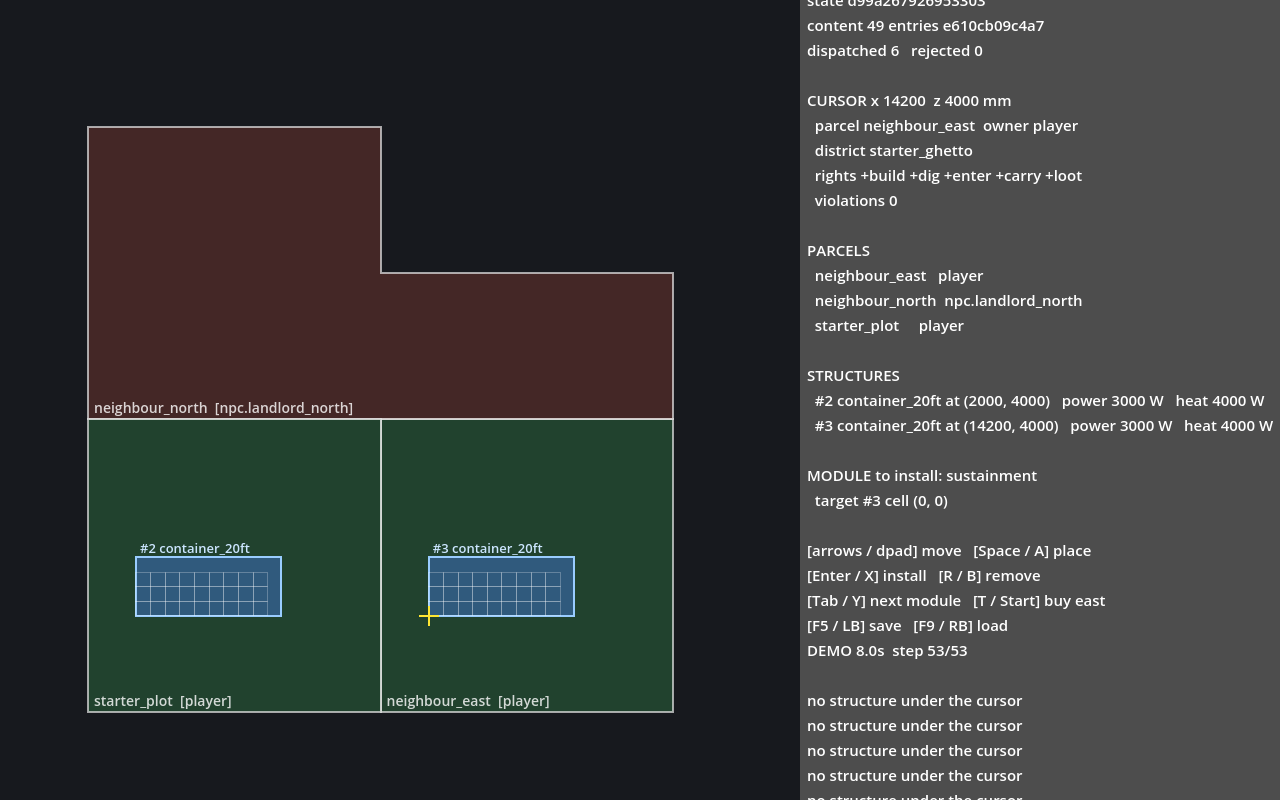
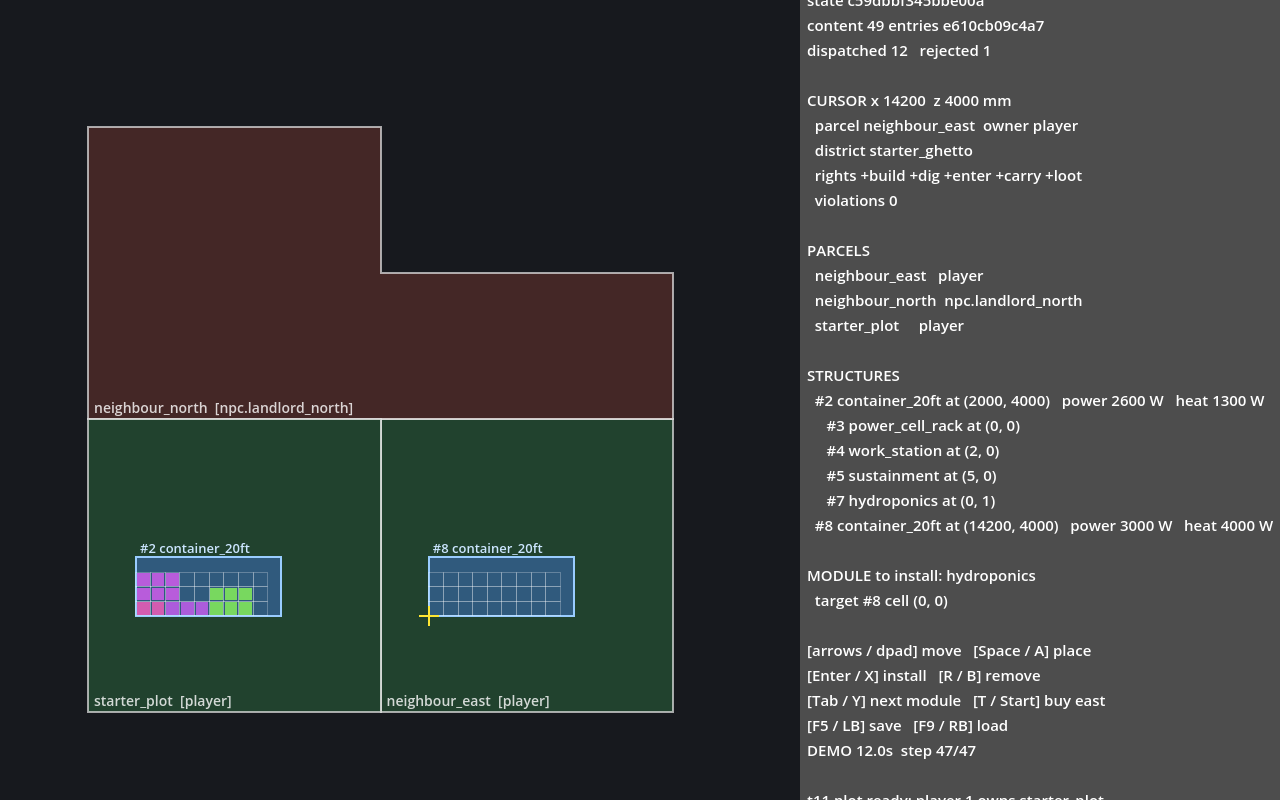
G2 evidence package: M2 gate submitted
docs/gates/M2-gate.md with the verification report (123 tests, five 10k
properties, four fixtures, two corpora), a twelve-step demo script, the
debt and deviation log (owners as tags, corner checks, water carried but
not budgeted, remaining debug-class commands) and the four standing
questions. Plot view demo selects modules by name so the capture shows
the full build-out; screenshot re-taken. Gate ledger, spec status and
README updated.

Claude-Session: https://claude.ai/code/session_01CwFmxaS9Kz2J6ZuesAfkz4

diff --git a/docs/gates/M2-gate.md b/docs/gates/M2-gate.md
@@ -1,0 +1,185 @@
+# G2 — M2 Land authority + starter plot: gate evidence package
+
+Milestone: M2 — Land authority + starter plot (design doc §16; standards §11 row G2)
+Specification: `docs/specs/M2-land-authority-starter-plot.md` (approved 2026-09-21)
+Submitted: 2026-09-21 by Claude Code, on branch `claude/relaxed-franklin-hs29t3`,
+commits `f9934f8` … `3aabed4` plus this package
+Outcome: _pending review_
+
+---
+
+## 1. Specification
+
+See `docs/specs/M2-land-authority-starter-plot.md`. Twenty-one claims; all
+implemented. One deviation was made before the code it concerns and is recorded in
+§4 (owners are tags, not actor ids). Two wordings were strengthened in the code and
+are recorded there too: placement checks every footprint corner, not only the origin
+(claim 9), and the M0/M1 fixtures were re-recorded four times as systems and content
+were added (claim 21).
+
+| Claims | Delivered by | Commit |
+|---|---|---|
+| 1–7 land authority | `sim/land/land_system.gd`, `district` / `parcel` content and schemas, `docs/extending-land.md` | `f9934f8` |
+| 8–12 starter plot, container, modules, budget | `sim/land/structure_system.gd`, `structure` / `module` content and schemas, `power_available` / `heat_headroom` stats, `docs/extending-modules.md` | `09980e6` |
+| 13–16 save and load | `sim/core/save_file.gd`, `SimRoot.restore_root()`, `SimAssembly.load_save()`, `tests/fuzz/save_file/` | `a4be426` |
+| 17 command actor checks | `ItemSystem.set_actor_check()` from the assembly; progression already refused dead actors | `f49ab85` |
+| 18 Steam Cloud file set | `docs/steam-cloud.md`; the client writes the slot layout | `f49ab85` |
+| 19 content schemas | `tools/content_schemas/{district,parcel,structure,module}.json`; cross-references and cycles checked in the systems' `validate_content()` | `f9934f8`, `09980e6` |
+| 20 client view | `client/plot_view.gd` (new main scene), `LocalHost.adopt()`, input map | `f49ab85` |
+| 21 fixtures | `tests/replay/m2-starter-plot.json`, `tests/sim/test_m2_fixture.gd` (mid-run save and resume) | `f49ab85` |
+| Q4 extension exercise | `content/module/hydroponics.json`, `content/district/corporate_core.json`, `tests/land/test_extension_content.gd` | `3aabed4` |
+
+## 2. Verification report
+
+All numbers below were produced on the development container (Linux x86_64, Godot
+4.6.1-stable, Python 3.11), **not on Steam Deck hardware**. M2 makes no performance
+claim (standards §4.2 applies from G4). Reproduce with `tools/test.sh`.
+
+### Fitness functions (`tools/test.sh fitness`)
+
+| Check | Result |
+|---|---|
+| Python tool tests | 37 tests, OK |
+| `tools/check_dependencies.py` | clean |
+| `tools/validate_content.py` | clean: 49 content entries across 15 kinds, every file structurally valid, every cross-reference resolved |
+
+### Static analysis (`tools/test.sh scripts`)
+
+Every `.gd` file passes `--check-only` with warnings as errors. During M2 the
+analyzer rejected 31 places where a dictionary lookup was passed straight into a
+typed parameter; each was rewritten with a typed local (none was silenced).
+
+### Headless test suite (`tools/test.sh unit`)
+
+| Suite | Tests | What it proves |
+|---|---|---|
+| `tests/land/test_land_system.gd` | 12 | Content parcels placed; shared edges and the three-way corner resolve to exactly one parcel; half-open vertical extent; rights per table; digging under the neighbour refused; `require()` emits exactly one event per refusal and none on success; payload contracts; polygon validity (bow tie, folded edge, sub-m²); overlap rejection (identical, partial, contained, containing, stacked, edge- and corner-sharing); diagonal split; **totality over 10 000 positions and actors**; **rectangle-oracle property: `add_parcel` and `parcel_at` agree with brute force over 10 000 adds and 10 000 queries**; restore round trip with a rejected bad restore |
+| `tests/land/test_structure_system.gd` | 13 | Placement records owner and budgets; rotation; trespass at any corner is a violation; the badlands are free; footprints never overlap; three modules within budget and the fourth refused; exact budget arithmetic and exact restoration on removal; grid bounds and occupancy; dependants never orphaned; strangers refused; payload contracts; **10 000-step random install/remove property against a budget, occupancy and dependency oracle**; restore round trip through the resolver |
+| `tests/sim/test_save_file.gd` | 6 | `load(save(state))` hashes equal and keeps stepping equal with queued commands; text deterministic and under 64 KiB; 64-bit RNG state and prefixed strings exact; 20 named hostile mutations (10 at parse, 10 at load); 14-file corpus; **10 000 random mutations never crash and every accepted mutant is self-consistent**; **10 000 generated sims round-trip and keep stepping identically** |
+| `tests/sim/test_m2_fixture.gd` | 2 | The M2 fixture matches its recorded hash and its end state (two containers, four and one modules, one violation, two rejections); save at tick 200, load, resume equals the uninterrupted run and the recorded hash |
+| `tests/land/test_extension_content.gd` | 2 | Every module installs after its dependencies on an empty container within budget; every district's rights table is exactly what `rights_at()` reports |
+| M0 and M1 suites | 88 | Unchanged claims still hold; the M1 item tests now spawn their actors first (claim 17); 27 M2 cases added to the hostile command corpus (76 cases in all) |
+| **Total** | **123 tests, 213 109 assertions, 0 failed** | `check_test_log: clean` |
+
+Property seeds are fixed constants in the test files. No failing seed was found.
+
+### Replay determinism (`tools/test.sh replay`)
+
+Each fixture replayed in two separate engine processes, hashes identical and equal
+to the recorded ones:
+
+```
+ok   tests/replay/m0-trivial.json      c2d8702d7ee6ac33070ab7ebf61114a118108a9604ee2a96493ccc882e1f07dd
+ok   tests/replay/m1-perk-off.json     ad97bbf299d55709bf0ebecd7866b1511c87049ad2e50c587c4a819bc6da4389
+ok   tests/replay/m1-range.json        1ed8f26c5c5222b921c48bcaf5c4993e3e79795eb8810c8f654a3e4a9ba9cf61
+ok   tests/replay/m2-starter-plot.json 7a6f63caf6c91da7395fa0c5e8dd99594b633b8ea2da73d2f9516a79a615cdd0
+```
+
+### Fuzz corpora
+
+- `tests/fuzz/commands/hostile_payloads.json`: 76 cases (27 new for `land.*`,
+  `structure.place`, `module.*` and actor-less item and perk commands); each rejected
+  with system state untouched, against the assembled M2 sim.
+- `tests/fuzz/save_file/`: 14 hostile saves (empty, garbage, wrong version, missing
+  or short digest, unprefixed key, float, big-int overflow, malformed int key, unknown
+  envelope key, 200-deep nesting, binary garbage, int64 edges); all rejected with a
+  message; the loader's `to_int` overflow found by the corpus was replaced by an
+  overflow-safe parser and the edge file committed.
+
+### Screenshot
+
+`docs/gates/screenshots/M2-plot.png`: the plot view at 12 s into the scripted demo:
+both parcels owned, the first container with its rack, work station, sustainment and
+hydroponics and the resolved budgets, the second container on the bought neighbour,
+the save written.
+
+## 3. Demo script
+
+On any Linux x86_64 machine with `python3`, `curl`, `unzip`; steps 8–12 also on the
+Deck from the Linux export. Expected observation follows each step.
+
+1. Check out `3aabed4` (or later on the branch) and run `tools/test.sh`. →
+   `123 tests, 213109 assertions, 0 failed`, four `ok` replay lines with the hashes
+   above, `all stages passed`.
+2. `git show --stat 3aabed4`. → Seven files: two under `content/`, one test, four
+   fixture hash lines. Nothing under `sim/`, `client/` or `tools/` (Q4).
+3. Edit `content/district/starter_ghetto.json` and set the `other` row's `enter` to
+   `false`; run `tools/test.sh unit`. → `test_every_district_rights_table_is_what_rights_at_reports`
+   still passes (it reads the table), `test_rights_follow_owner_other_and_unowned_tables`
+   fails on the stranger's rights, and every fixture hash mismatch names the content
+   digest change. Revert.
+4. Add `"depends_on": ["hydroponics"]` to `content/module/work_station.json`; run
+   `tools/test.sh unit`. → Every assembly fails with
+   `StructureSystem: content rejected: module/hydroponics depends on itself` (the cycle
+   is found through work_station). Revert.
+5. Change `"ticks": 400` to `401` in `tests/replay/m2-starter-plot.json`; run
+   `tools/test.sh unit`. → both `test_m2_fixture` tests fail on the hash. Revert.
+6. `tools/screenshot.sh /tmp/plot.png 12` → a PNG matching
+   `docs/gates/screenshots/M2-plot.png` up to the seed and hash text.
+7. `$(tools/godot.sh) --path .` → the plot view opens at 1280×800: the L-shaped
+   neighbour to the north in red, the starter plot in green, the cursor on the plot.
+8. Press Space. → A container appears at the cursor; the panel shows
+   `power 3000 W   heat 4000 W` for it.
+9. Press Tab until `MODULE to install: power_cell_rack`, then Enter. → A green block
+   fills cells (0,0)–(1,0); power reads 5500 W, heat 3400 W.
+10. Move the cursor right twice, Tab to `work_station`, Enter. → Cells (2,0)–(4,0)
+    fill; power 4700 W, heat 2900 W. Press R with the cursor still there. → The
+    module is removed and the numbers return to 5500 / 3400 exactly.
+11. Move the cursor onto `neighbour_east` (right until `parcel neighbour_east`), press
+    Space. → Nothing is placed; `violations` increments by one. Press T, then Space. →
+    `neighbour_east   player` in the parcel list and a second container appears.
+12. Press F5, quit, relaunch, press F9. → `loaded tick N`; both containers and their
+    modules are back with the same numbers; `state` shows the same 16 hex characters
+    as before quitting once the tick counts match (compare after F5 without stepping:
+    the demo's `--demo-quit=0.1` is the reproducible way, see `tools/screenshot.sh`).
+
+## 4. Debt and deviation log
+
+| # | Item | Kind | Scheduled |
+|---|---|---|---|
+| 1 | **Owners are tags** (`player`, `npc.<name>`, `faction.<id>`), not actor ids; actors act as the owner they are identified with (`land.identify`). The spec said actor ids; the design (§9.4) has factions and the city-state own land, which actor ids cannot express. | deviation (spec §"Assumptions" amended in this package) | closed |
+| 2 | `land.identify` is a debug-class command like `land.transfer` and `actor.spawn`: any client can make any actor the player. Gated with G1 debt 4 before co-op. | security | before co-op (M8 gate at the latest) |
+| 3 | Placement checks `build` at all four footprint corners, not only the origin as the spec wrote; a container straddling a boundary is refused. Stronger, not weaker. | strengthening | closed |
+| 4 | Structure footprints are axis-aligned rectangles after quarter turns; parcels are polygons. A rotated parcel boundary crossing a container's edge between corners is not detected. | scope | M3 (building pieces bring edge tests) |
+| 5 | Water is carried and validated but not budgeted; no stat exists for it. | deliberate incompleteness (spec out of scope) | when a system reads it |
+| 6 | Structures on unparcelled land record an empty `owner_at_placement`. Reclaim and takeover (ADR-005) read that field from M8. | note | M8 |
+| 7 | `SaveFile` round-trips String and StringName both as JSON strings; restored state uses StringName where the systems do. Hash equality after load is the proof it does not matter; a system that stored a String where it later compares a StringName would be caught by that same test. | note | none |
+| 8 | Saves carry only the root snapshot; chunk deltas (M7) will extend the schema additively (`save_schema_version` 2). | scope | M7 |
+| 9 | The client's save/load writes and reads `user://saves/plot/`; no slot list, no conflict UI, no meta validation on load beyond `world.json`. The document defines them; the device (M5) implements them. | scope | M5 |
+| 10 | The demo and screenshot run one scripted action per frame under software GL; on the Deck the same script runs faster. Steps 8–12 of the demo script are the manual equivalent. | note | none |
+| 11 | No Deck run of this milestone's export. G1's export preset is unchanged and still excludes tests, tools and docs. | scope | CEOGG, G2 review or G3 |
+| 12 | The unit stage now takes about two minutes on the container, almost all of it the two 10 000-case save properties. Acceptable for CI; if it grows, the per-case sim can be assembled once per seed. | perf note | G4 |
+| 13 | The M1 gate's recorded hashes are those of its day; they moved four times during M2 (new systems, new content). Each move is in the commit that caused it. | deliberate change | closed |
+| 14 | G1 debt 5 (commands tied to any positive actor id) and 6 (root state not restored) are closed by claims 17 and 13. G1 debt 4 (debug-class spawn) remains and gains `land.identify` and `land.transfer`. | closure | see 2 |
+| 15 | Mutation testing not run; target G6. No Deck measurement; M2 has no frame-budget claim. | scope | G6 / G4 |
+
+## 5. The four standing questions
+
+**Q1 — Does it function?** Yes. Every claim has passing tests; five property tests
+run 10 000 cases each; the M2 fixture replays bit-identically across two processes,
+and a save taken at tick 200 resumes to the same hash as the uninterrupted run.
+
+**Q2 — Is it secure?** Threat model for M2: new untrusted inputs are save files
+(local and, later, cloud) and four new content kinds. Saves are validated in three
+layers (envelope, every system's `restore()`, the root) with a corpus and 10 000
+mutations per run; the corpus found one real defect (integer overflow in the engine's
+`to_int`) which is fixed and pinned by a corpus file. Content is schema-checked at
+build and semantically checked at assembly (cycles, unknown districts, unfitting
+modules). Every command names a live actor. No new dependency.
+
+**Q3 — Is it complete?** No stubs, no `TODO` in the tree; every error path returns
+an `Error` or a message, or asserts. Every debt item above is scheduled or closed.
+
+**Q4 — Is it expandable?** Performed: commit `3aabed4` adds a fourth module (with a
+dependency and water) and a third district (stricter table) with zero changes under
+`sim/`, `client/` or `tools/`; the walking test proves both without naming either.
+Districts, parcels, structures and modules are files; owners, rights and signals are
+registry-style tags; the save and snapshot schemas carry versions.
+`docs/extending-land.md` and `docs/extending-modules.md` record the procedure.
+
+## 6. Sign-off
+
+Approver: CEOGG
+Date:
+Outcome: ☐ Accepted   ☐ Accepted with conditions (list below)   ☐ Rejected
+Conditions:

diff --git a/docs/specs/M2-land-authority-starter-plot.md b/docs/specs/M2-land-authority-starter-plot.md
@@ -1,7 +1,7 @@
 # M2 — Land authority + starter plot: specification
 
 Milestone M2 of `docs/gcity-design.md` §16, in the terms of that document. Written
-before implementation (standards §2.1, §10.2). Status: **approved** as written (CEOGG, 2026-09-21).
+before implementation (standards §2.1, §10.2). Status: **approved** as written (CEOGG, 2026-09-21); implemented, G2 package in `docs/gates/M2-gate.md`.
 
 **Preconditions.** G1 is signed in `docs/gates/M1-gate.md` (it is). ADR-003 is
 `accepted` as B, volumetric (it is), so parcels have a real vertical extent and the
@@ -175,6 +175,9 @@ attached to route graph nodes (M7); any performance number.
 
 ## Assumptions to record in the gate
 
+- Owners are tags (`player`, `npc.<name>`, `faction.<id>`), not actor ids, because the
+  design lets factions and the city-state own land (§9.4); actors act as the owner they
+  are identified with via `land.identify`. Amended during implementation; G2 debt 1.
 - Positions are integer millimetres. The design doc uses feet for the plot; content
   stores millimetres and the 2 ft socket pitch is rounded to 610 mm. Alternative
   rejected: floats, for the same reason as M1's milli-unit stats.

diff --git a/README.md b/README.md
@@ -14,10 +14,11 @@ test that would fail if it were false.
 
 ## Status
 
-**M0 — Skeleton.** Sim/client split with a CI-enforced dependency rule, a headless
-test harness, a fixed-tick deterministic sim root with canonical state hashing, and
-record-and-replay fixtures. No gameplay. See `docs/specs/M0-skeleton.md` and
-`docs/gates/M0-gate.md`.
+**M2 — Land authority + starter plot**, evidence package submitted (`docs/gates/M2-gate.md`).
+G0 and G1 are accepted. The sim has a total `rights_at()` over polygon parcels, a
+container with modules on a shared power and heat budget through the stat resolver,
+and a validated save format round-tripped as a property. The main scene is the plot
+view; the M1 range is `client/main.tscn`.
 
 ## Running
 

diff --git a/docs/gates/README.md b/docs/gates/README.md
@@ -12,5 +12,6 @@ scheduled into a named milestone), or **Rejected**.
 |---|---|---|
 | G0 | M0 — Skeleton | **Accepted** 2026-09-20 by CEOGG |
 | G1 | M1 — Stat resolver + one pistol | **Accepted** 2026-09-20 by CEOGG |
-| G2 | M2 — Land authority + starter plot | spec approved 2026-09-21 (`docs/specs/M2-land-authority-starter-plot.md`); in progress |
-| G3–G8 | see `docs/gcity-engineering-standards.md` §11 | not started |
+| G2 | M2 — Land authority + starter plot | evidence package submitted 2026-09-21 (`M2-gate.md`), awaiting review |
+| G3 | M3 — Portal graph + build system | not started (spec first) |
+| G4–G8 | see `docs/gcity-engineering-standards.md` §11 | not started |
